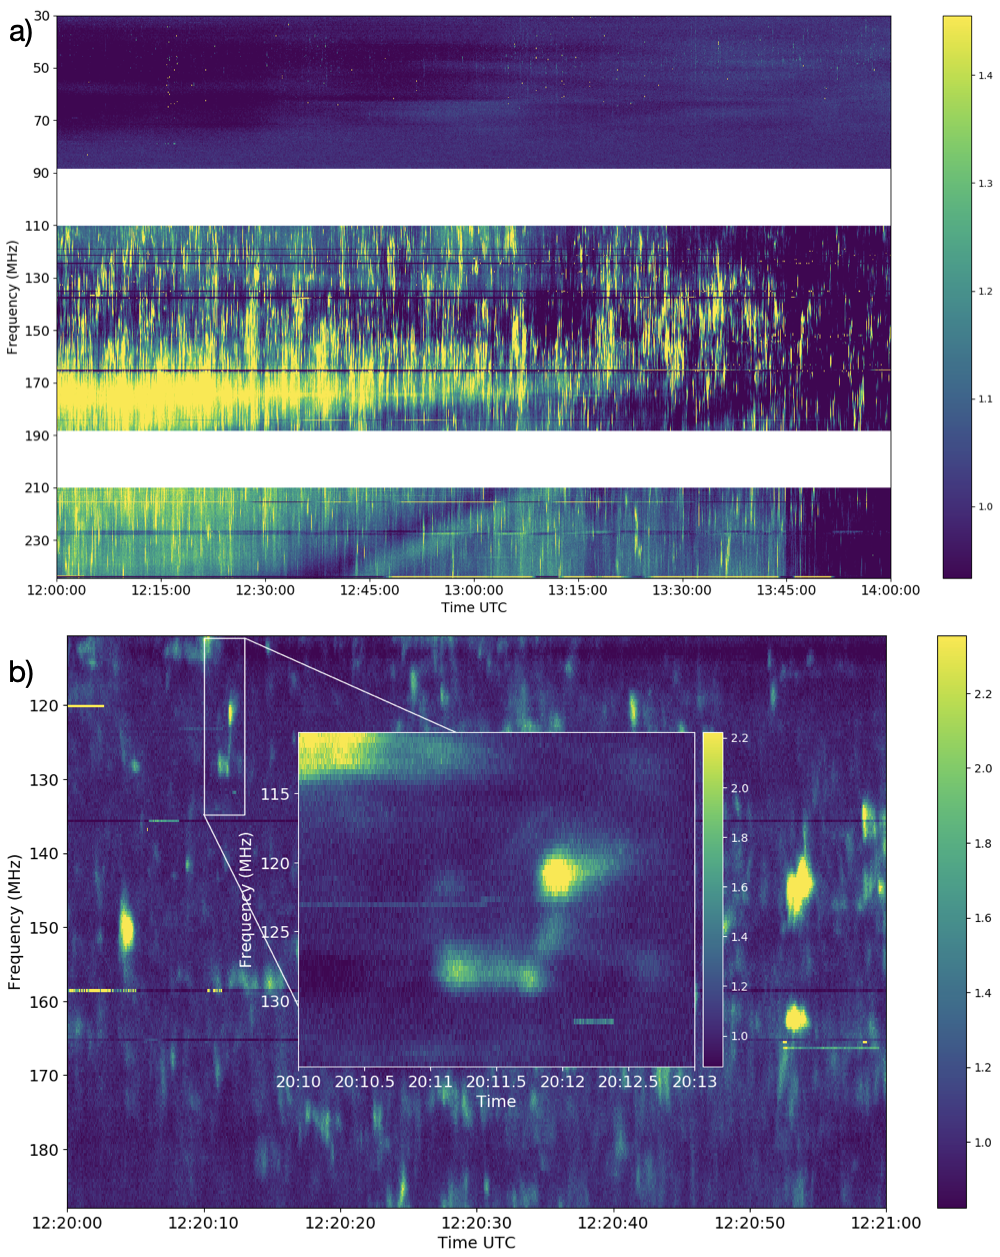
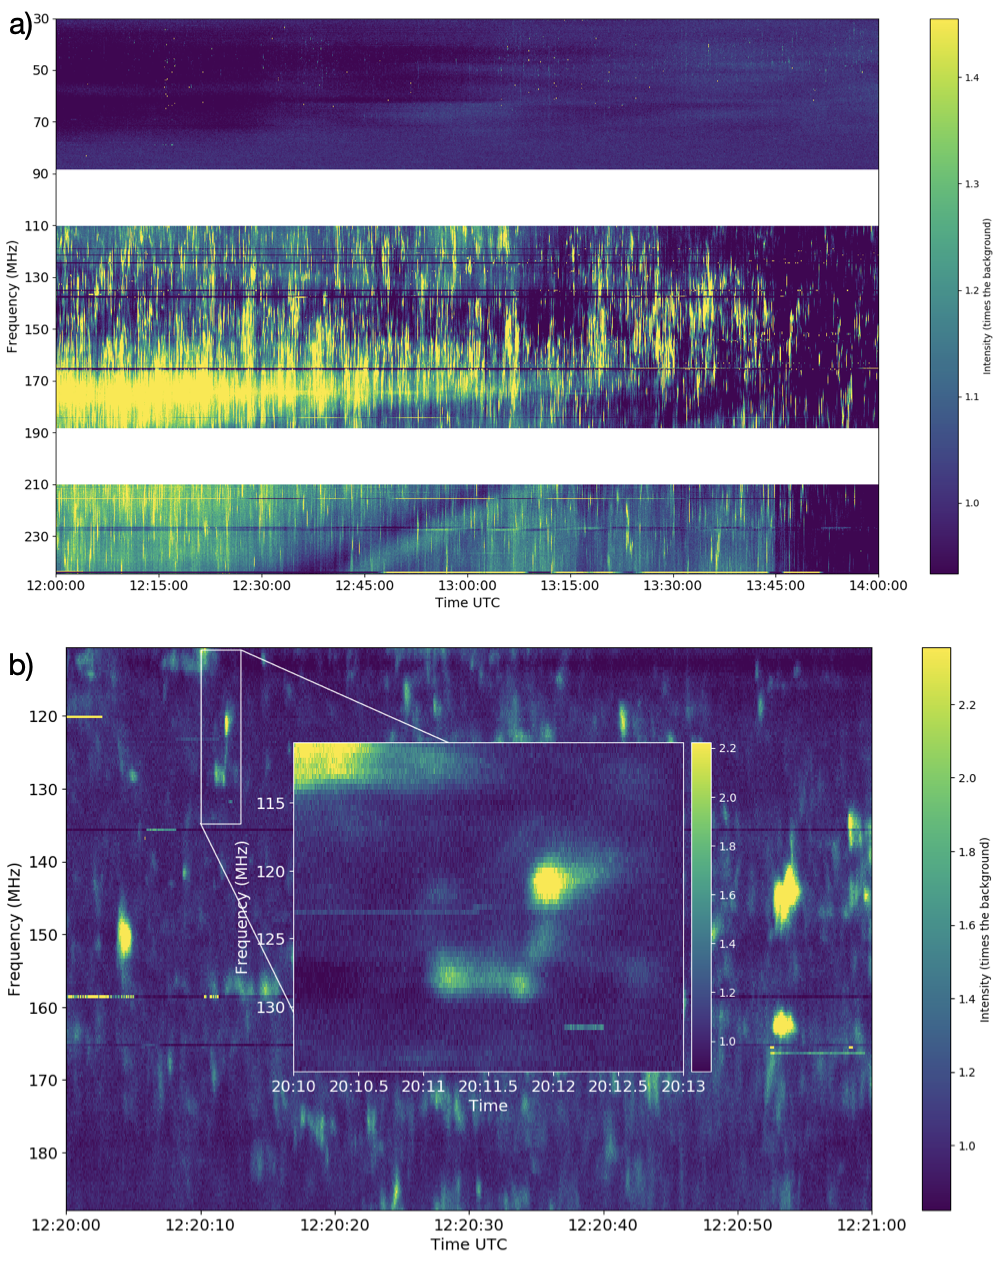
forgotten commit, presumably finishing off corrections

diff --git a/4/measuring_source_sizes.tex b/4/measuring_source_sizes.tex
@@ -18,7 +18,7 @@ The study of radio wave scattering in the solar corona has its origins in the 60
 
 In low frequency imaging, the extent of scattering in the corona can be determined through the analysis of type III radio bursts, particularly their position and size in images or decay times in dynamic spectra \citep[e.g.][]{Kontar2019, Gordovskyy2019, Krupar2018}. Given that these bursts are due to plasma emission from electron beams propagating through coronal plasma \citep[see][for a review]{Reid2014}, they provide a density diagnostic of such plasma. In particular, a subset of these bursts known as ``type IIIb" (see Section \ref{sec:typeIII}) provide a diagnostic of scattering in coronal plasma due to density fluctuations from turbulence. For example, type IIIb bursts often show fine structures or ``striae" along the burst envelope \citep{Ellis1967,Ellis1969,DeLaNoe1972,DeLaNoe1975,Melnik2010b}, which are believed to be caused by density inhomogeneities in the corona \citep{Takakura1975}. Using a density model, the frequency bandwidth of these striae can be used to infer the vertical extent of the density inhomogeneity in space. A comparison of this spatial extent to observed source size in images can provide the extent to which the radio emission has been scattered \citep[e.g.][]{Kontar2017}.
 
-Theoretically, the extent of scattering in the corona is related to the root mean squared (rms) fluctuations of electron density $\varepsilon = \sqrt{\left< \delta n^2 \right>}/n$. Many recent works have assumed a value for $\varepsilon$ to use in simulations in order to recreate the time profile and source size of solar radio bursts \citep[e.g.][]{Krupar2018, Kontar2019}. However, few use the observed source size and time profile to determine $\varepsilon$. Those that have are limited to determining the value of $\varepsilon$ in the solar wind at distances $> 10 \, R_\odot$. Techniques such as interplanetary scintillations \citep[e.g.][]{Bisoi2014} and Crab nebula occultation \citep{SasikumarRaja2016} have also been used to determine $\varepsilon$ at these distances. The general conclusion of these studies is that $\varepsilon$ varies slowly with heliocentric distance and has typical values of $0.001 \lesssim \varepsilon \lesssim 0.02$ in the range of 10 to 45 $\, R_\odot$. Despite this, larger values of $\varepsilon$ have been used in models. For example, \cite{Reid2010} use a radially varying value of $\varepsilon$ to model electron beam transport and found a value of $\varepsilon \approx 0.1$ at 1~AU. \cite{Kontar2019} recently used Monte Carlo simulations of scattering to determine that a value of $\varepsilon = 0.8$ is necessary in order to account for source sizes of the order of 20~arcmin at $\sim 32$~MHz, as observed by \cite{Kontar2017}. This value in particular seems excessively large given the large fluctuations in density this would need. Perhaps during eruptive periods above active regions such as CMEs it may be possible but otherwise seems highly unlikely. Measured values of $\varepsilon$, particularly at heights of ${\sim} 2 \, R_\odot$, are not common in the literature, with the exception of a recent study by \cite{Krupar2020}. By using observations from Parker Solar Probe \citep[PSP,][]{Fox2016}, \cite{Krupar2020} calculate a value for $\varepsilon = 0.07$ at a plasma frequency $f_p = 137$ kHz. They also find that the value of $\varepsilon$ decreases from 0.22 to 0.09 over a height range of 2.4 to 14$\, R_\odot$. \cite{Woo1995} measured the value of $varepsilon$ \textit{in-situ} in the solar wind at distances less than 0.2~AU. They found $varepsilon$ in the range of 0.003 - 0.005 in the fast solar wind and $\sim 0.1$ in the slow solar wind.
+Theoretically, the extent of scattering in the corona is related to the root mean squared (rms) fluctuations of electron density $\varepsilon = \sqrt{\left< \delta n^2 \right>}/n$. Many recent works have assumed a value for $\varepsilon$ to use in simulations in order to recreate the time profile and source size of solar radio bursts \citep[e.g.][]{Krupar2018, Kontar2019}. However, few use the observed source size and time profile to determine $\varepsilon$. Those that have are limited to determining the value of $\varepsilon$ in the solar wind at distances $> 10 \, R_\odot$. Techniques such as interplanetary scintillations \citep[e.g.][]{Bisoi2014} and Crab nebula occultation \citep{SasikumarRaja2016} have also been used to determine $\varepsilon$ at these distances. The general conclusion of these studies is that $\varepsilon$ varies slowly with heliocentric distance and has typical values of $0.001 \lesssim \varepsilon \lesssim 0.02$ in the range of 10 to 45 $\, R_\odot$. Despite this, larger values of $\varepsilon$ have been used in models. For example, \cite{Reid2010} use a radially varying value of $\varepsilon$ to model electron beam transport and found a value of $\varepsilon \approx 0.1$ at 1~AU. \cite{Kontar2019} recently used Monte Carlo simulations of scattering to determine that a value of $\varepsilon = 0.8$ is necessary in order to account for source sizes of the order of 20~arcmin at $\sim 32$~MHz, as observed by \cite{Kontar2017}. This value in particular seems excessively large given the large fluctuations in density this would need. Perhaps during eruptive periods above active regions such as CMEs it may be possible but otherwise seems highly unlikely. Measured values of $\varepsilon$, particularly at heights of ${\sim} 2 \, R_\odot$, are not common in the literature, with the exception of a recent study by \cite{Krupar2020}. By using observations from Parker Solar Probe \citep[PSP,][]{Fox2016}, \cite{Krupar2020} calculate a value for $\varepsilon = 0.07$ at a plasma frequency $f_p = 137$ kHz. They also find that the value of $\varepsilon$ decreases from 0.22 to 0.09 over a height range of 2.4 to 14$\, R_\odot$. \cite{Woo1995} measured the value of $\varepsilon$ \textit{in-situ} in the solar wind at distances less than 0.2~AU. They found $\varepsilon$ in the range of 0.003 - 0.005 in the fast solar wind and $\sim 0.1$ in the slow solar wind.
 
 The spectrum of density fluctuations in the solar corona, $S(\mathbf{q})$, can be normalised relative to the rms density fluctuations such that \citep[e.g.][]{Kontar2019}
 \begin{equation}
@@ -58,7 +58,7 @@ The maximum baseline of the LOFAR observation is 84\,km giving sub-arcminute res
 \begin{figure}
     \centering
     \includegraphics[width=\columnwidth]{Images/Burst_inset_goes_20200730.png}
-    \caption[GOES X-ray lightcurves and dynamic spectrum for the duration of a LOFAR solar observation 17 October 2015.]{The X-ray light curve and radio dynamic spectrum for 17 October 2015. \textbf{a)} GOES X-ray lightcurves for the duration of the LOFAR solar observation. Minimal activity other than a number of C class flares prior to 13:00 UTC is observed. Red vertical lines indicate the time range of radio analysis. \textbf{b)} Dynamic spectrum of a type IIIb solar radio burst observed with LOFAR station RS509. The inset is a zoom of the region in the white box showing striation in the burst. The white cross indicates the time and frequency at which the images described in Section \ref{sec:data} are made.}
+    \caption[GOES X-ray lightcurves and dynamic spectrum for the duration of a LOFAR solar observation 17 October 2015.]{The X-ray light curve and radio dynamic spectrum for 17 October 2015. \textbf{a)} GOES X-ray lightcurves for the duration of the LOFAR solar observation. Minimal activity other than a number of C class flares prior to 13:00 UTC is observed. Red vertical lines indicate the time range of radio analysis. \textbf{b)} Dynamic spectrum of a type IIIb solar radio burst observed with LOFAR station RS509. The inset is a zoom of the region in the white box showing striation in the burst. The white cross indicates the time and frequency at which the images described in Section \ref{sec:data} are made. The intensity was not calibrated for this observation.}
     \label{fig:context}
 \end{figure}
 

diff --git a/6/future_work.tex b/6/future_work.tex
@@ -2,7 +2,7 @@
 \doublespacing
 \chapter{Future Work and Conclusions}
 \label{chap:future}
-The principle goals of this thesis were to observe solar radio emission at the highest temporal, spectral and spatial resolutions to date. Firstly, the REAL-time Transient Acquisition backend (REALTA) was developed and installed at I-LOFAR to record the raw voltages from the station at $5.12 \mu$s temporal resolution. This work was published in \textit{Astronomy and Astrophysics} as \cite{Murphy2021b}
+The principal goals of this thesis were to observe solar radio emission at the highest temporal, spectral and spatial resolutions to date. Firstly, the REAL-time Transient Acquisition backend (REALTA) was developed and installed at I-LOFAR to record the raw voltages from the station at $5.12 \mu$s temporal resolution. This work was published in \textit{Astronomy and Astrophysics} as \cite{Murphy2021b}
 Secondly, a new technique was implemented for the first time to directly measure the size of radio bursts from their interferometric visibilities. This work was presented in Chapter \ref{chap:measuring_source_sizes} and was published in \textit{Astronomy and Astrophysics} as \cite{Murphy2021}. This technique was utilised to determine the size and shape of 29 type III bursts that were compared with predictions from state-of-the-art scattering simulations.
 In this chapter I highlight some future work that could be built upon the research presented in this thesis to further advance the knowledge of radio wave generation and propagation in the solar corona. I discuss the possibility of observing radio bursts with 5~ns temporal resolution using the Transient Buffer Boards (TBBs) from I-LOFAR. Next I consider the use of machine learning algorithms to automatically detect and classify solar radio bursts recorded with I-LOFAR and REALTA. I then discuss the necessity for the development of a calibration and imaging pipeline for solar interferometry. I also outline further work that is necessary to bridge the gap between modern observations and computer simulations. This is underscored by the need for a statistical analysis of type III and type IIIb radio bursts, particular in the context of the most recent theories of spectral fine structure generation due to Langmuir wave modulation. Finally, I draw this thesis to a close with some concluding remarks.
 
@@ -18,7 +18,12 @@ In order to do this, a dedicated backend to record, store and analyse the data w
 International LOFAR stations are ideal instruments to observe radio pulsars, particularly at frequencies between 100~MHz and 200~MHz \citep{Stappers2011, Bilous2014, Noutsos2015}. Furthermore, the large fractional bandwidth of an international LOFAR station can offer new insight to the spectral variability of giant pulses from the Crab Nebula. Many international stations regularly participate in pulsar studies \citep[for example,][]{Mereghetti2016, Bondonneau2017, Hermsen2018, Donner2019}, while pulsar observations with LOFAR core stations \citep[for example,][]{Bilous2014, Bilous2020} are also common. Recent observations with the Polish international stations include those by \cite{Blaszkiewicz2020}. 
 
 To date, over 50 different pulsars have been observed with I-LOFAR using REALTA. Figure \ref{fig:pulsar-pc1} shows a sample of 19 pulsars which were observed, each for 6 minutes, on the 4th and 5th of March 2020, processed using the methods discussed in section \ref{sec:pulsarproc}. In addition, as a result of regular timing campaigns of these sources, a number of targets have been studied in more depth, the Crab Nebula being the prime example. 
-
+\begin{figure*}[t]
+    \centering
+    \includegraphics[width=0.92\textwidth]{psr_profiles.jpg}
+    \caption[Sample of 19 pulsars observed with I-LOFAR and REALqTA.]{Sample of 19 pulsars observed with I-LOFAR and REALTA. Each of these observations is 6 minutes in duration and were taken on 4--5 March 2020 using the HBA antennas (\SIrange{110}{190}{\mega \hertz}). The data were processed using the method described in section \ref{sec:pulsarproc} and plotted using \texttt{PSRCHIVE}. The x-axis in each plot is the pulse phase in radians, while the y-axis is flux density in arbitrary units.}
+    \label{fig:pulsar-pc1}
+\end{figure*}
 While the recording and timing of folded profiles of the Crab pulsar are of interest for studying the interior structure of the neutron star via its glitches \citep{Lyne2015} and variability due to scattering and echo events, it also frequently emits so-called `giant pulses' \citep{Meyers2017}. These giant pulses have fluences that vary from hundreds of Jy\,ms to tens of thousands of Jy\,ms. These pulses can be studied to analyse their scintillation, scattering, and brightness distributions.
 
 One such example of these giant pulses can be seen in an observation taken of the Crab pulsar with I-LOFAR on 30 June 2020. The observation was processed using the previously described methodology (section \ref{sec:baseproc}, section \ref{sec:pulsarproc}) on REALTA and a short segment of the observation is shown in Figure \ref{fig:giant_pulse}. The figure is made from Stokes I data, where each channel has a bandwidth of 24~kHz and an underlying time resolution of 40.96~$\mu$s (though it has been averaged using a median filter for this plot). There were $\sim 1300$ giant pulse candidates detected in the 30 minute observation. Using a rate of $\sim 0.7$ giant pulses per second, we determine there are $\sim 20$ giant pulses visible in the dynamic spectrum in the left panel of Figure \ref{fig:giant_pulse}. Other structure in the left panel of Figure \ref{fig:giant_pulse} includes some ionospheric scintillation and RFI. This time segment is mostly of interest due to one rare, extremely bright, giant pulse, which is re-plotted in the right panel of Figure \ref{fig:giant_pulse} where it has been corrected for dispersion effects. Initial analysis using the radiometer equation indicates a specific fluence of $\sim 200$~kJy~ms across the observed bandwidth which may be the brightest pulse ever observed for this pulsar at these frequencies \citep{Karuppusamy2012,Meyers2017,VanLeeuwen2020}.

diff --git a/7/realta.tex b/7/realta.tex
@@ -150,12 +150,7 @@ In the future, the capture and formatting of data will occur simultaneously in r
     \label{fig:REALTA_future}
 \end{figure*}
 
-\begin{figure*}[t]
-    \centering
-    \includegraphics[width=0.92\textwidth]{psr_profiles.jpg}
-    \caption[Sample of 19 pulsars observed with I-LOFAR and REALqTA.]{Sample of 19 pulsars observed with I-LOFAR and REALTA. Each of these observations is 6 minutes in duration and were taken on 4--5 March 2020 using the HBA antennas (\SIrange{110}{190}{\mega \hertz}). The data were processed using the method described in section \ref{sec:pulsarproc} and plotted using \texttt{PSRCHIVE}. The x-axis in each plot is the pulse phase in radians, while the y-axis is flux density in arbitrary units.}
-    \label{fig:pulsar-pc1}
-\end{figure*}
+
 
 \section{First results}
 \label{sec:results}
@@ -174,7 +169,7 @@ On 2 November 2020, I-LOFAR observed a solar radio noise storm in mode 357. The 
 \begin{figure}
     \centering
     \includegraphics[width=0.75\columnwidth]{bursts_cbar.png}
-    \caption[Solar radio noise storm observed on 2 November 2020.]{A dynamic spectrum of a solar radio noise storm observed on 2 November 2020. The x axis shows the time of day on 2 November 2020 while the y axis shows the frequency in MHz. The colourbar shows the intensity in arbitrary units. This is a period of radio activity where bursty features that do not match the 5 typical types of bursts described in section \ref{sec:solar_radio_bursts} can be seen. a) In this mode 357 observation, a number of bright bursts can be seen at frequencies greater than 110~MHz (yellow in the dynamic spectrum). The white gaps indicate the frequency range not observed in mode 357.%\SIrange{110}{190}{\mega\hertz}
+    \caption[Solar radio noise storm observed on 2 November 2020.]{A dynamic spectrum of a solar radio noise storm observed on 2 November 2020. The x axis shows the time of day on 2 November 2020 while the y axis shows the frequency in MHz. The colourbars shows the intensity relative to the background. This is a period of radio activity where bursty features that do not match the 5 typical types of bursts described in section \ref{sec:solar_radio_bursts} can be seen. a) In this mode 357 observation, a number of bright bursts can be seen at frequencies greater than 110~MHz (yellow in the dynamic spectrum). The white gaps indicate the frequency range not observed in mode 357.%\SIrange{110}{190}{\mega\hertz}
     Here the data spans 2 hours from 12:00 UTC and has a temporal resolution of 10~ms.
     %\SI{10}{\milli \second}. 
     b) Zoom-in of panel a at 1~ms temporal resolution. A number of short duration SRBs are observed. The inset shows the sub-second variation of an individual burst in the noise storm, also at a temporal resolution of 1~ms. Bursts such as this have not been characterised. The spectral resolution of both panels is 195.3125~kHz.}
@@ -187,8 +182,8 @@ The high temporal resolution of REALTA observations with I-LOFAR will allow the 
 
 \begin{figure}
     \centering
-    \includegraphics[width=\columnwidth]{burst_inset_20220322.png}
-    \caption[Type IIIb burst observed on 3 June 2020.]{Type IIIb burst observed on 3 June 2020. In this mode 357 observation, a number of type III bursts can be seen in the frequency range of 10-190~MHz (yellow in the dynamic spectrum). %\SIrange{110}{190}{\mega\hertz}
+    \includegraphics[width=\columnwidth]{burst_inset_20220411.png}
+    \caption[Type IIIb burst observed on 3 June 2020.]{Type IIIb burst observed on 3 June 2020. In this mode 357 observation, a number of type III bursts can be seen in the frequency range of 10-190~MHz (yellow in the dynamic spectrum). The intensity relative to the background is shown in the colourbar. %\SIrange{110}{190}{\mega\hertz}
     Here the data spans 1 minute from 06:35 UTC and has a temporal resolution of 1~ms. The inset shows 2 type IIIb bursts which occur over 7 seconds in the frequency range 30 - 80~MHz. The fine spectral structure known as striae (see Section \ref{sec:typeIII}) are clearly evident. The spectral resolution of the dynamic spectrum is 195.3125~kHz. It is interesting to note that the bright burst that occurred at $\sim$ 06:35:20 in the frequency range 110-190~MHz disappears at lower frequencies. It is possible that this burst is a J burst such as those described in Section \ref{sec:typeIII}, where the turnover of the burst occurs in the frequency range not observed.}
     \label{fig:typeIIIb_realta}
 \end{figure}
@@ -198,7 +193,7 @@ Figure \ref{fig:typeIIIb_realta} shows a number of type III and type IIIb bursts
 \begin{figure}
     \centering
     \includegraphics[width=\columnwidth]{Uburst_1ms_1090MHz_cbar.png}
-    \caption[Two solar radio bursts observed on 2 June 2020.]{Two solar radio bursts observed on 2 June 2020. The earlier burst is likely a type III SRB while the later burst shows the morphology typical of a U burst. The observation has a spectral resolution of $\sim$ \SI{195}{\kilo \hertz} and a temporal resolution of \SI{1}{\milli \second}.}
+    \caption[Two solar radio bursts observed on 2 June 2020.]{Two solar radio bursts observed on 2 June 2020. The earlier burst is likely a type III SRB while the later burst shows the morphology typical of a U burst. The observation has a spectral resolution of $\sim$ \SI{195}{\kilo \hertz} and a temporal resolution of \SI{1}{\milli \second}. The intensity of the bursts relative to the background is given by the colourbar.}
     \label{fig:uburst}
 \end{figure}
 

diff --git a/1/introduction.tex b/1/introduction.tex
@@ -89,7 +89,7 @@ The plasma beta parameter is effectively a ratio of pressure due to the plasma a
 \label{eq:pbeta}
 \beta = \frac{nk_BT}{B^2/2\mu_0}
 \end{equation}
-where $n$ is the electron density, $k_B$ is the Boltzmann constant, $T$ is the plasma temperature, $B$ is the magnetic field strength and $\mu_0$ is the permeability of free space. Using values of $n$ and $T$ from Figure \ref{fig:corona_temp} and typical values for the magnetic field strength in the chromosphere ($\sim 100$~G) and corona ($\sim 10$~G) we can see that the value for $\beta$ changes from values $>1$ in the chromosphere to $<1$ in the corona. In low $\beta$ environments the magnetic pressure dominates and plasma is confined along magnetic field lines. It is for this reason that the magnetic field structure of the solar corona gives rise to a number of energetic phenomena such as solar flares and coronal mass ejections.
+where $n$ is the electron density, $k_B$ is the Boltzmann constant, $T$ is the plasma temperature, $B$ is the magnetic field strength and $\mu_0$ is the permeability of free space. Using values of $n$ and $T$ from Figure \ref{fig:corona_temp} and typical values for the magnetic field strength in the chromosphere ($\sim 100$~G) and corona ($\sim 10$~G) we can see that the value for $\beta$ changes from values $>1$ in the chromosphere to $<1$ in the corona. In low $\beta$ environments the magnetic pressure dominates and plasma is confined along magnetic field lines. It is for this reason that the magnetic field structure of the solar corona gives rise to acceleration events in energetic phenomena such as solar flares and coronal mass ejections.
 \section{Solar Flares}
 \label{subsec:sf}
 Solar flares are massive releases of magnetic energy commonly believed to be due to a reconfiguration in the complicated magnetic field structure in an active region.  They are some of the most energetic events in the solar system, releasing $\sim 10^{25}$ J of energy over a matter of minutes. Flares are observed across the electromagnetic spectrum from radio waves to $\gamma$ rays with energies $> 10$ MeV. They are classified by the amount of X-ray flux (W m$^{-2}$) detected by the Geostationary Operational Environmental Satellite (GOES) 1-8 {\AA} band on a logarithmic scale as being A, B, C, M or X class with A being the lowest flux ($10^{-8} \mbox{ W m}^{-2}$) and X the highest ($10^{-4} \mbox{ W m}^{-2}$). Each class is further subdivided into a linear scale.

diff --git a/main.tex b/main.tex
@@ -8,7 +8,7 @@
 %: Style file for Latex
 % Most style definitions are in the external file PhDthesisPSnPDF.
 % In this template package, it can be found in ./Latex/Classes/
-\documentclass[a4paper,oneside,12pt]{Latex/Classes/PhDthesisPSnPDF}
+\documentclass[a4paper,twoside,12pt]{Latex/Classes/PhDthesisPSnPDF}
 \setcitestyle{numbers}
 %Change "oneside" to "twoside" for final submission-grade thesis after viva/corrections
 
@@ -199,8 +199,9 @@
 \usepackage{setspace}
 \singlespacing
 \graphicspath{{./}{Images/}}
+\tracingmacros=1
 \begin{document}
-
+\tracingmacros=0
 \setcitestyle{authoryear}
 
 \renewcommand\baselinestretch{1.2}
@@ -252,7 +253,7 @@ Prof. Peter T. Gallagher}\\[0.5mm]
 \textit{Co-Supervisor:} \\
 Dr. Eoin P. Carley}\\[0.5mm]
 \end{flushright}
-{December 2021}\\[5mm]
+{April 2022}\\[5mm]
 \rule{0.9\textwidth}{0.5mm}\\[4mm]
 %
 \begin{figure}[ht!]

diff --git a/0/declaration.tex b/0/declaration.tex
@@ -18,7 +18,7 @@ I consent to the examiner retaining a copy of the thesis beyond the examining pe
 
 \vspace{15mm}
 
-\textbf{Signature:}  ........................................		\textbf{Date:}  10/12/2021
+\textbf{Signature:}  ........................................		\textbf{Date:}  13/04/2022
 
 \end{declaration}
 
